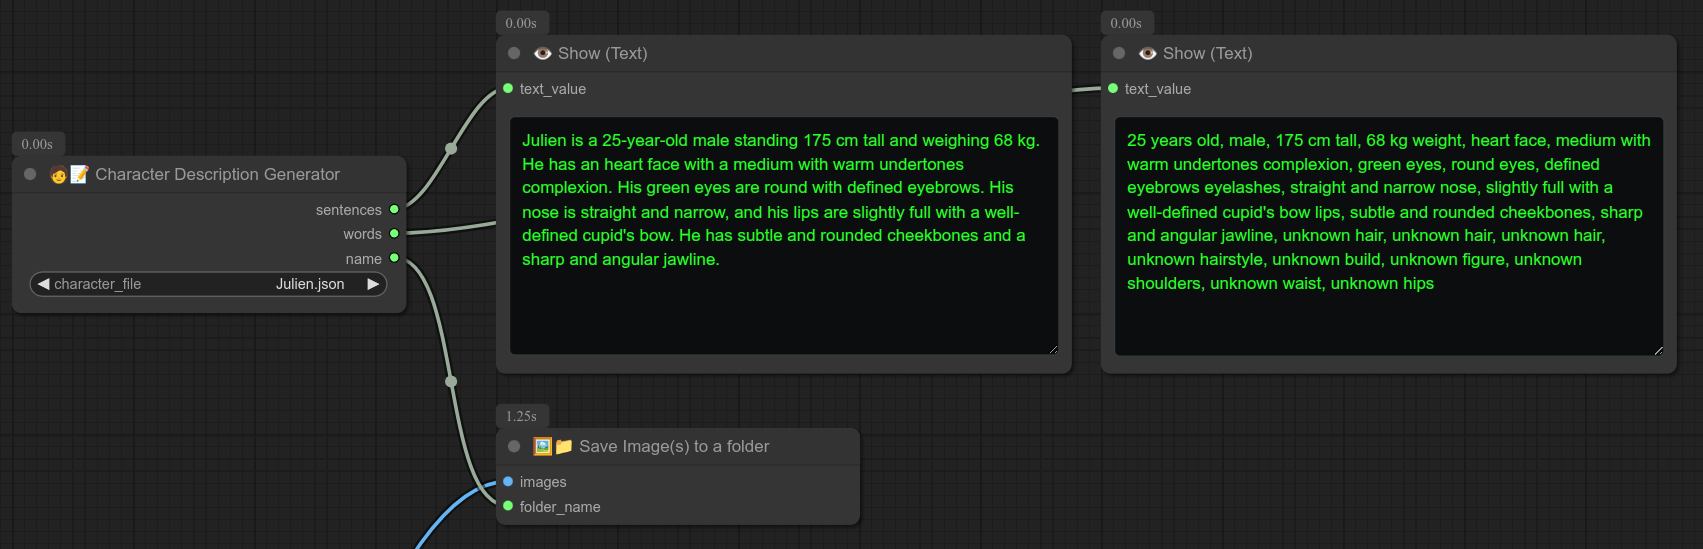
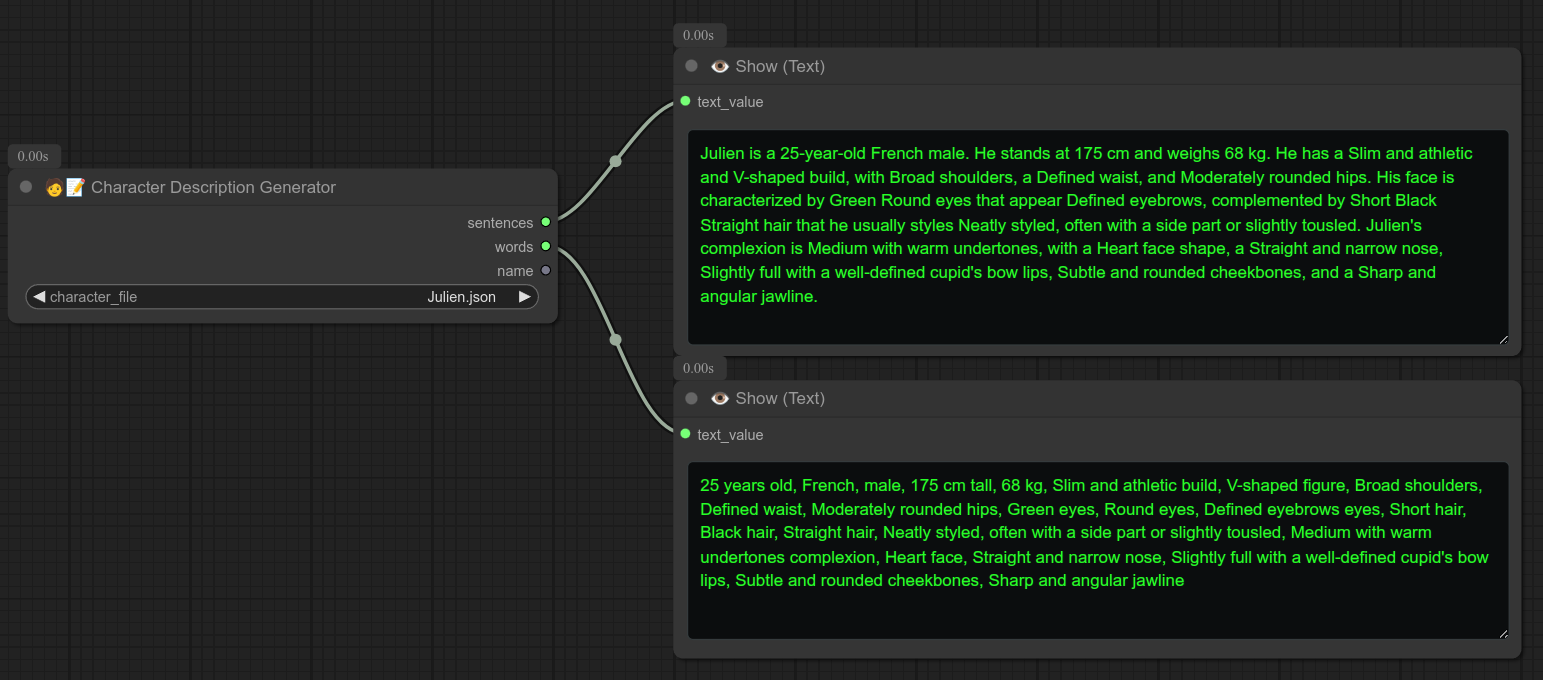
0.16

diff --git a/character_description.py b/character_description.py
@@ -27,96 +27,79 @@ class CharacterDescriptionGenerator:
     def generate_descriptions(self, character_file):
         current_dir = os.path.dirname(os.path.realpath(__file__))
         file_path = os.path.join(current_dir, "characters", character_file)
-        
+
         if not os.path.exists(file_path):
             return (f"Error: File {character_file} not found.", "")
-        
+
         try:
             with open(file_path, 'r') as file:
                 data = json.load(file)
-            
+
             name = data.get('name', 'Unknown')
+            nationality = data.get('nationality', 'Unknown')
             age = data.get('age', 'Unknown')
             gender = data.get('gender', 'Unknown').lower()
             height = data.get('height', 'Unknown')
             weight = data.get('weight', 'Unknown')
-
+            body_type = data.get('body_type', {})
             face = data.get('face', {})
             eyes = face.get('eyes', {})
-            hair = face.get('hair', {})
-            body_type = face.get('body_type', {})
+            hair = data.get('hair', {})
 
-            # Define pronouns based on gender
+            pronouns = {
+                'subject': 'They',
+                'object': 'them',
+                'possessive': 'their'
+            }
             if gender in ['female', 'f']:
-                pronouns = {
-                    'subject': 'She',
-                    'object': 'her',
-                    'possessive': 'her'
-                }
+                pronouns = {'subject': 'She', 'object': 'her', 'possessive': 'her'}
             elif gender in ['male', 'm']:
-                pronouns = {
-                    'subject': 'He',
-                    'object': 'him',
-                    'possessive': 'his'
-                }
-            else:
-                pronouns = {
-                    'subject': 'They',
-                    'object': 'them',
-                    'possessive': 'their'
-                }
+                pronouns = {'subject': 'He', 'object': 'him', 'possessive': 'his'}
 
-            # Generate sentences description
-            sentences = f"{name} is a {age}-year-old {gender} standing {height} tall and weighing {weight}. "
+            body_desc = f"{body_type.get('build', '')} and {body_type.get('figure', '')}"
+            eyes_desc = f"{eyes.get('color', '')} {eyes.get('shape', '')} eyes that appear {eyes.get('feature', '')}"
+            hair_desc = f"{hair.get('length', '')} {hair.get('color', '')} {hair.get('texture', '')} hair"
 
-            if face:
-                sentences += f"{pronouns['subject']} has an {face.get('shape', 'unknown').lower()} face with a {face.get('complexion', 'unknown').lower()} complexion. "
-                
-                if eyes:
-                    sentences += f"{pronouns['possessive'].capitalize()} {eyes.get('color', 'unknown').lower()} eyes are {eyes.get('shape', 'unknown').lower()} "
-                    sentences += f"with {eyes.get('feature', 'unknown').lower()}. "
-                
-                sentences += f"{pronouns['possessive'].capitalize()} nose is {face.get('nose', 'unknown').lower()}, and {pronouns['possessive']} lips are {face.get('lips', 'unknown').lower()}. "
-                sentences += f"{pronouns['subject']} has {face.get('cheekbones', 'unknown').lower()} cheekbones and a {face.get('jawline', 'unknown').lower()} jawline. "
-
-            if hair:
-                sentences += f"{name}'s {hair.get('color', 'unknown')} hair is {hair.get('length', 'unknown').lower()} and {hair.get('texture', 'unknown').lower()}, "
-                sentences += f"{hair.get('style', 'unknown').lower()}. "
-
-            if body_type:
-                sentences += f"{pronouns['subject']} has a {body_type.get('build', 'unknown').lower()} body type with a {body_type.get('figure', 'unknown').lower()} figure, "
-                sentences += f"{body_type.get('shoulders', 'unknown').lower()} shoulders, a {body_type.get('waist', 'unknown').lower()} waist, "
-                sentences += f"and {body_type.get('hips', 'unknown').lower()} hips."
-
+            sentences = (
+                f"{name} is a {age}-year-old {nationality} {gender.lower()}. "
+                f"{pronouns['subject']} stands at {height} and weighs {weight}. "
+                f"{pronouns['subject']} has a {body_desc} build, with {body_type.get('shoulders', '')} shoulders, "
+                f"a {body_type.get('waist', '')} waist, and {body_type.get('hips', '')} hips. "
+                f"{pronouns['possessive'].capitalize()} face is characterized by {eyes_desc}, complemented by {hair_desc} "
+                f"that {pronouns['subject'].lower()} usually styles {hair.get('style', '')}. "
+                f"{name}'s complexion is {face.get('complexion', '')}, with a {face.get('shape', '')} face shape, "
+                f"a {face.get('nose', '')} nose, {face.get('lips', '')} lips, {face.get('cheekbones', '')} cheekbones, "
+                f"and a {face.get('jawline', '')} jawline."
+            )
             
-            # Generate words description
             words_list = [
                 f"{age} years old",
-                gender,
+                f"{nationality}",
+                f"{gender}",
                 f"{height} tall",
-                f"{weight} weight",
-                face.get('shape', 'unknown').lower() + " face",
-                face.get('complexion', 'unknown').lower() + " complexion",
-                eyes.get('color', 'unknown').lower() + " eyes",
-                eyes.get('shape', 'unknown').lower() + " eyes",
-                eyes.get('feature', 'unknown').lower() + " eyelashes",
-                face.get('nose', 'unknown').lower() + " nose",
-                face.get('lips', 'unknown').lower() + " lips",
-                face.get('cheekbones', 'unknown').lower() + " cheekbones",
-                face.get('jawline', 'unknown').lower() + " jawline",
-                hair.get('color', 'unknown') + " hair",
-                hair.get('length', 'unknown').lower() + " hair",
-                hair.get('texture', 'unknown').lower() + " hair",
-                hair.get('style', 'unknown').lower() + " hairstyle",
-                body_type.get('build', 'unknown').lower() + " build",
-                body_type.get('figure', 'unknown').lower() + " figure",
-                body_type.get('shoulders', 'unknown').lower() + " shoulders",
-                body_type.get('waist', 'unknown').lower() + " waist",
-                body_type.get('hips', 'unknown').lower() + " hips"
+                f"{weight}",
+                f"{body_type.get('build', '')} build",
+                f"{body_type.get('figure', '')} figure",
+                f"{body_type.get('shoulders', '')} shoulders",
+                f"{body_type.get('waist', '')} waist",
+                f"{body_type.get('hips', '')} hips",
+                f"{eyes.get('color', '')} eyes",
+                f"{eyes.get('shape', '')} eyes",
+                f"{eyes.get('feature', '')} eyes",
+                f"{hair.get('length', '')} hair",
+                f"{hair.get('color', '')} hair",
+                f"{hair.get('texture', '')} hair",
+                f"{hair.get('style', '')}",
+                f"{face.get('complexion', '')} complexion",
+                f"{face.get('shape', '')} face",
+                f"{face.get('nose', '')} nose",
+                f"{face.get('lips', '')} lips",
+                f"{face.get('cheekbones', '')} cheekbones",
+                f"{face.get('jawline', '')} jawline"
             ]
             words = ", ".join(words_list)
-            
+
             return (sentences, words, character_file.replace('.json', ''))
-        
+
         except Exception as e:
             return (f"Error processing {character_file}: {str(e)}", "")

diff --git a/README.md b/README.md
@@ -1,4 +1,4 @@
-# 🔗 Comfyui : Bjornulf_custom_nodes v0.15 🔗
+# 🔗 Comfyui : Bjornulf_custom_nodes v0.16 🔗
 
 # Dependencies
 
@@ -25,6 +25,7 @@
 - **v0.13**: Add a new node: Load image with transparency (alpha) - Load an image with transparency.
 - **v0.14**: Add a new node: Cut image from a mask
 - **v0.15**: Add two new nodes: TTS - Text to Speech and Character Description Generator
+- **v0.16**: Big changes on Character Description Generator
 
 # 📝 Nodes descriptions
 
@@ -245,7 +246,7 @@ The default `Load Image` node will not load the transparency.
 Cut an image from a mask.  
 
 ## 31 - 🔊 TTS - Text to Speech
-![Cut image](screenshots/tts.png)
+![TTS](screenshots/tts.png)
 
 **Description:**  
 Use my TTS server to generate speech from text.  
@@ -255,9 +256,11 @@ That link must must be a link to the folder where you store the voice samples yo
 If my TTS server is running on port 8020 (You can test in browser with the link <http://localhost:8020/tts_stream?language=en&speaker_wav=default&text=Hello>) and voice samples are good, you can use this node to generate speech from text.  
 
 ### 32 - 🧑📝 Character Description Generator
-![Cut image](screenshots/characters.png)
+![characters](screenshots/characters.png)
+![characters](screenshots/characters2.png)
 
 **Description:**  
 Generate a character description based on a json file in the folder `characters` : `ComfyUI/custom_nodes/Bjornulf_custom_nodes/characters`  
 Make your own json file with your own characters, and use this node to generate a description.  
-❗ For now it's very basic node, a lot of things are going to be added.  
+❗ For now it's very basic node, a lot of things are going to be added and changed !!!  
+Some details are unusable for some checkpoints, very much a work in progress, the json structure isn't set in stone either.  
